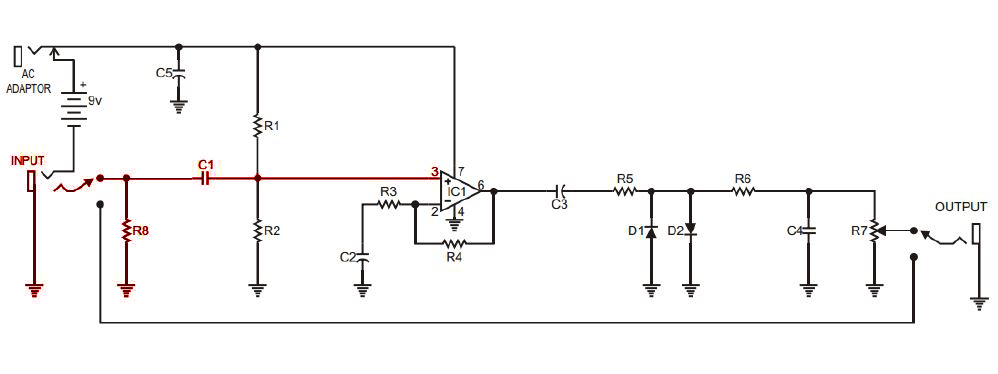
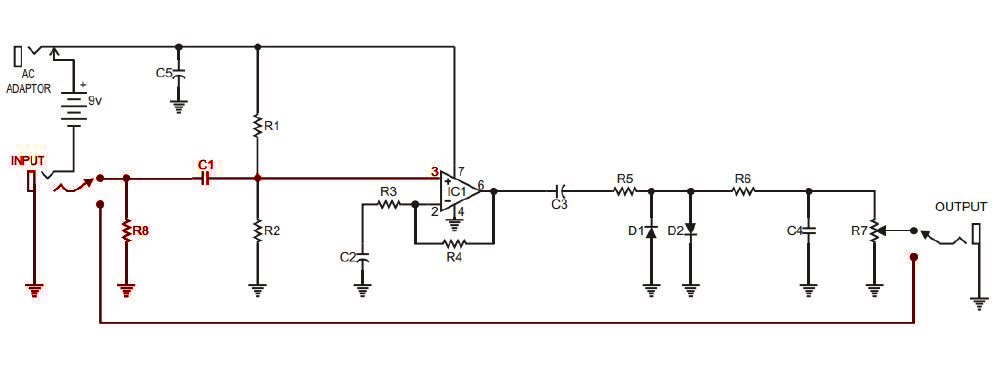
seguido ej5

diff --git a/TP2/Informe/Ejercicio5.tex b/TP2/Informe/Ejercicio5.tex
@@ -34,7 +34,9 @@ Por último, se llevan los $9V$ de la fuente de alimentación a la entrada de al
 Justo luego de la entrada se encuentra la resistencia $R_8$. Esta resistencia podría situarse en este lugar para atenuar levemente la entrada y ayudar a filtrar pequeños picos muy rápidos de tensión en la entrada. Otra hipótesis es que ayuda a elevar la impedancia de entrada de todo el circuito.\\
 
 El capacitor $C_1$, como ya dicho antes, ofrece gran impedancia a la tensión continua de la alimentación para proteger a la entrada. De otra manera, la señal continua ingresaría por la entrada.
-Lo que se obtiene posterior al capacitor será la señal de entrada levantada tantos voltios como proporcionen el punto medio del divisor resistivo.
+Lo que se obtiene posterior al capacitor será la señal de entrada levantada tantos voltios como proporcionen el punto medio del divisor resistivo.\\
+
+Se contempla además que el circuito base nos permite tener una opción de realizar un bypass total al circuito mediante el uso de una llave de 
 
 \subsubsection{Etapa de Amplificación}
 
@@ -60,16 +62,11 @@ A la salida del operacional se encuentra el capacitor $C_3$. Este capacitor se u
 	\label{fig:circuito_base_ecualizacion}
 \end{figure}
 
-Luego, se encuentran en el circuito una resistencia en serie con un par de diodos en paralelo con polaridad invertida. Estos diodos fijarían la tensión de la señal en $V_{d_{on}}$.
+Luego, se encuentran en el circuito una resistencia en serie con un par de diodos en paralelo con polaridad invertida. Estos diodos fijarían la tensión de la señal en $V_{d_{on}}$ tanto para el semi-ciclo positivo como para el negativo. Esto deformaría mucho a la señal generando un efecto de "clipping". Se presume que esto se apreciaría como una gran distorsión a la hora de conectar una guitarra y escuchar la salida.\\
 
-\subsubsection{Bypass total del circuito}
+Seguido de los diodos se puede encontrar un pequeño circuito R-C cuya finalidad podría ser la de darle un último cambio a la señal. Este circuito estaría atenuando las frecuencias altas. Se deberá comprobar mediante simulaciones y protobordeado el uso de este último tramo.
 
-\begin{figure}[H]
-	\centering
-	\includegraphics[width=1\textwidth, trim={0 0 0 0}, clip]{Ejercicio5/Imagenes/circuito_base_bypass.png}
-	\caption{Bypass del circuito.}
-	\label{fig:circuito_base_bypass}
-\end{figure}
+Finalmente antes de la salida se encuentra un potenciómetro, el cual se presume que se utiliza como control de volumen de salida.
 
 \subsection{Análisis Cuantitativo del Circuito Base}
 
